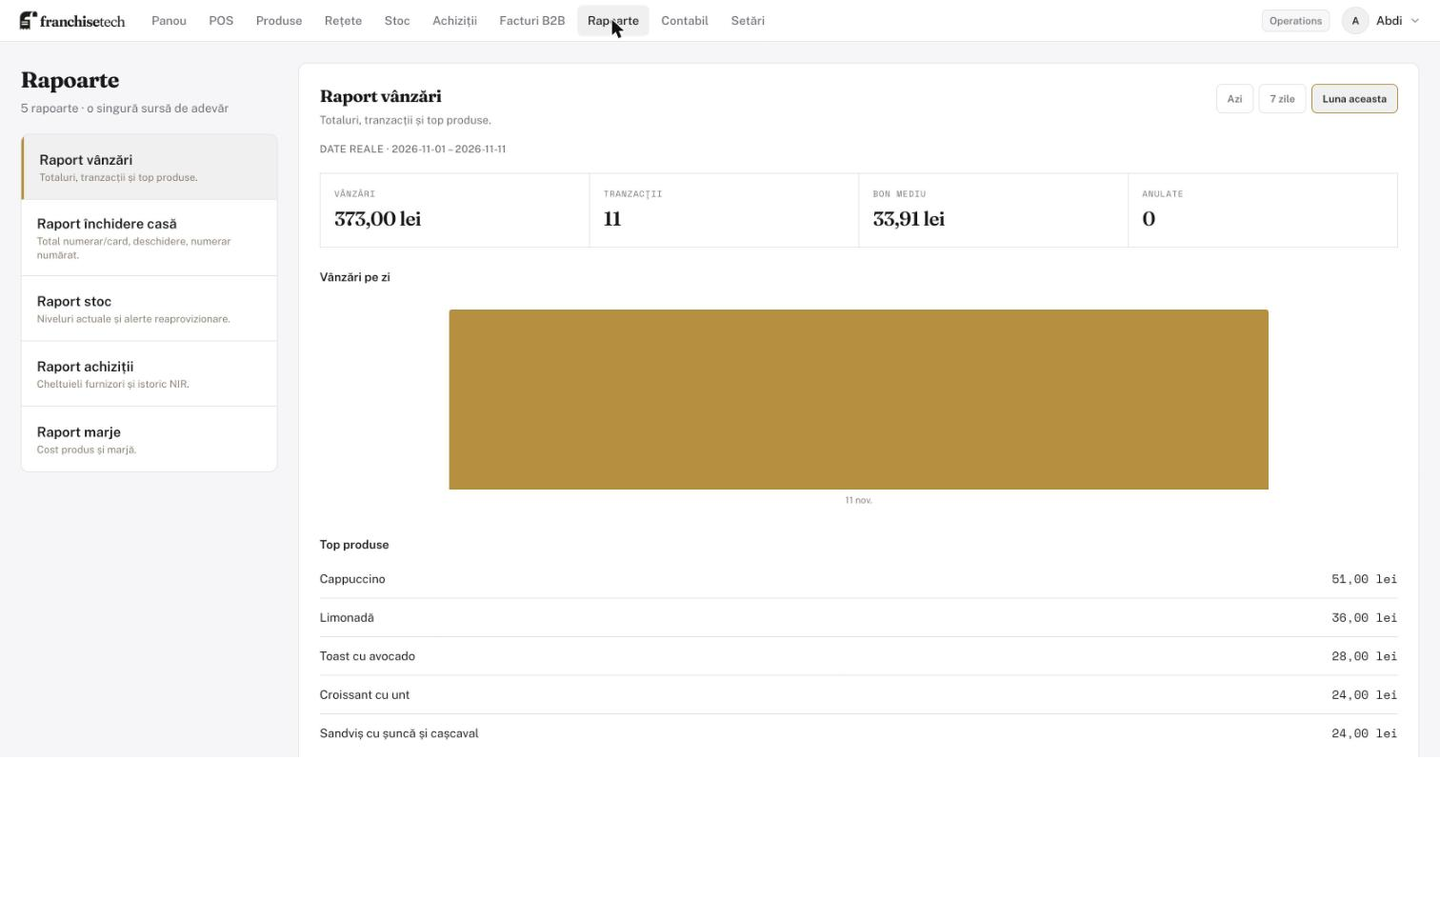
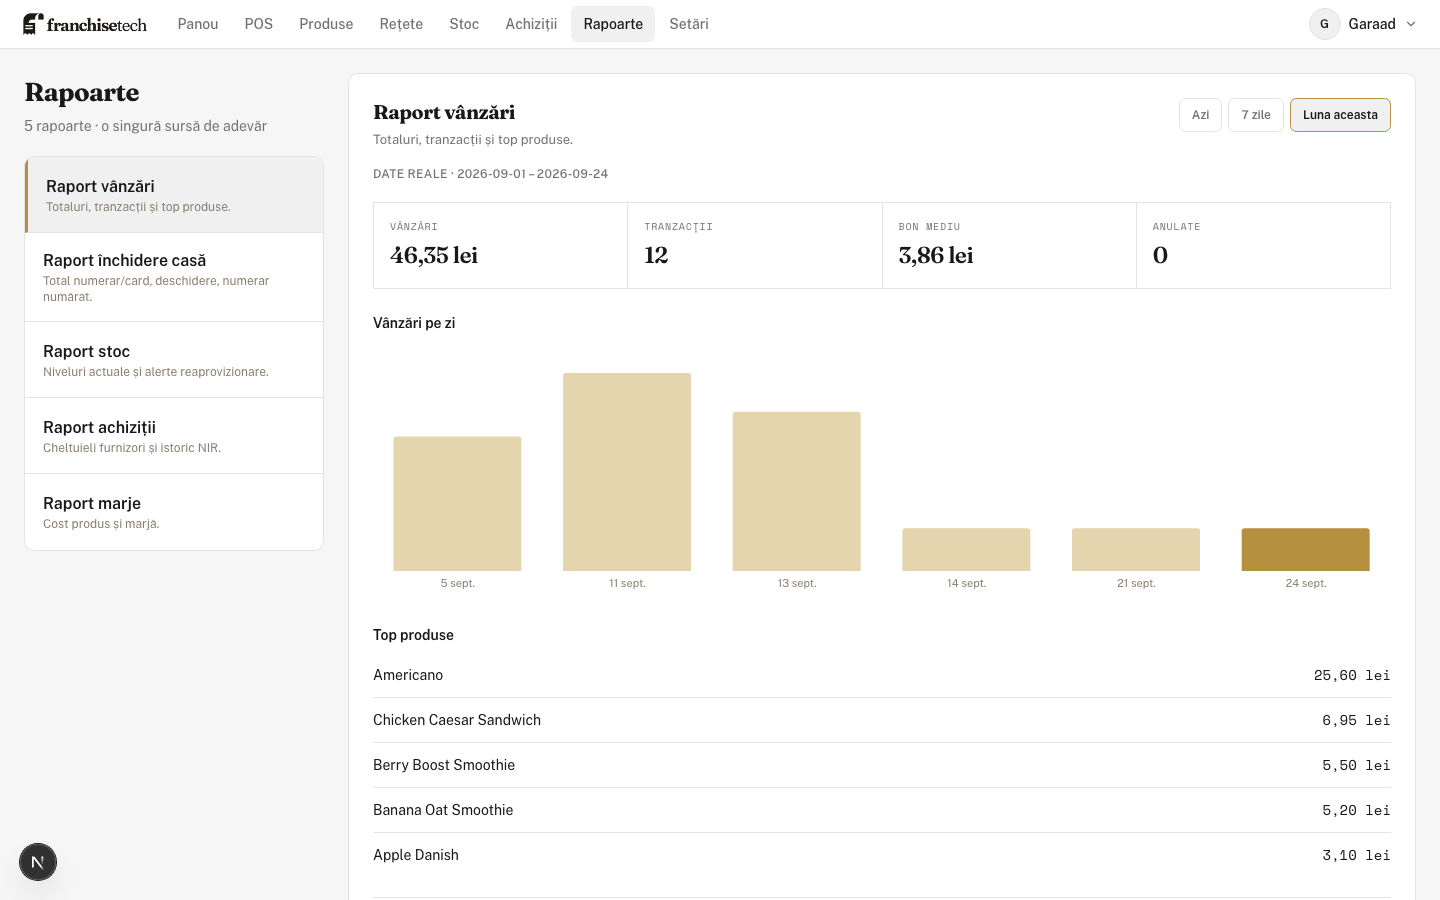
site: keep the old reports screen out of articles until its test-data label is fixed

diff --git a/lib/marketing/blog-screenshot.ts b/lib/marketing/blog-screenshot.ts
@@ -12,7 +12,6 @@ const SCREENS: Record<string, BlogScreenshot> = {
   pos: { src: "/marketing/live/pos.png", alt: "Ecranul de vânzare (POS) din franchisetech" },
   stock: { src: "/marketing/live/stock.png", alt: "Pagina de stoc din franchisetech" },
   recipes: { src: "/marketing/live/recipes.png", alt: "Rețetă cu cost și marjă în franchisetech" },
-  reports: { src: "/marketing/live/reports.png", alt: "Raport de vânzări în franchisetech" },
   dashboard: { src: "/marketing/live/dashboard.png", alt: "Panoul proprietarului în franchisetech" },
 };
 
@@ -20,7 +19,9 @@ const SCREENS: Record<string, BlogScreenshot> = {
 const TAG_SCREEN: Array<[RegExp, keyof typeof SCREENS]> = [
   [/stoc|nir|inventar|receptie|transfer|perisabil|materii/, "stock"],
   [/retet|marj|cost|pret|food/, "recipes"],
-  [/raport|inchidere|numerar|casierie|kpi|contabil|saga|export|registru/, "reports"],
+  // Report-type articles use the dashboard until the reports screen is re-shot:
+  // its "Date reale" label is wrong on test data (fix in progress, 2026-11-11).
+  [/raport|inchidere|numerar|casierie|kpi|contabil|saga|export|registru/, "dashboard"],
   [/bon|casa|pos|storno|fiscalnet|tva|bacsis|anulare|qr/, "pos"],
 ];
 

diff --git a/lib/marketing/blog-screenshot.test.ts b/lib/marketing/blog-screenshot.test.ts
@@ -4,7 +4,7 @@ import { blogPosts } from "./blog";
 
 describe("blogScreenshotFor", () => {
   it("keeps the screen the article already names", () => {
-    expect(blogScreenshotFor({ image: "/marketing/live/reports.png", tags: ["stoc"] }).src).toBe("/marketing/live/reports.png");
+    expect(blogScreenshotFor({ image: "/marketing/live/stock.png", tags: ["raport-z"] }).src).toBe("/marketing/live/stock.png");
   });
   it("falls back to the tag, then to the dashboard", () => {
     expect(blogScreenshotFor({ image: "/marketing/hero-casa-marcat.jpg", tags: ["stoc-negativ"] }).src).toBe("/marketing/live/stock.png");
@@ -12,7 +12,7 @@ describe("blogScreenshotFor", () => {
   });
   it("gives every published article a live screen", () => {
     for (const post of blogPosts) {
-      expect(blogScreenshotFor(post).src).toMatch(/^\/marketing\/live\/(pos|stock|recipes|reports|dashboard)\.png$/);
+      expect(blogScreenshotFor(post).src).toMatch(/^\/marketing\/live\/(pos|stock|recipes|dashboard)\.png$/);
     }
   });
 });
